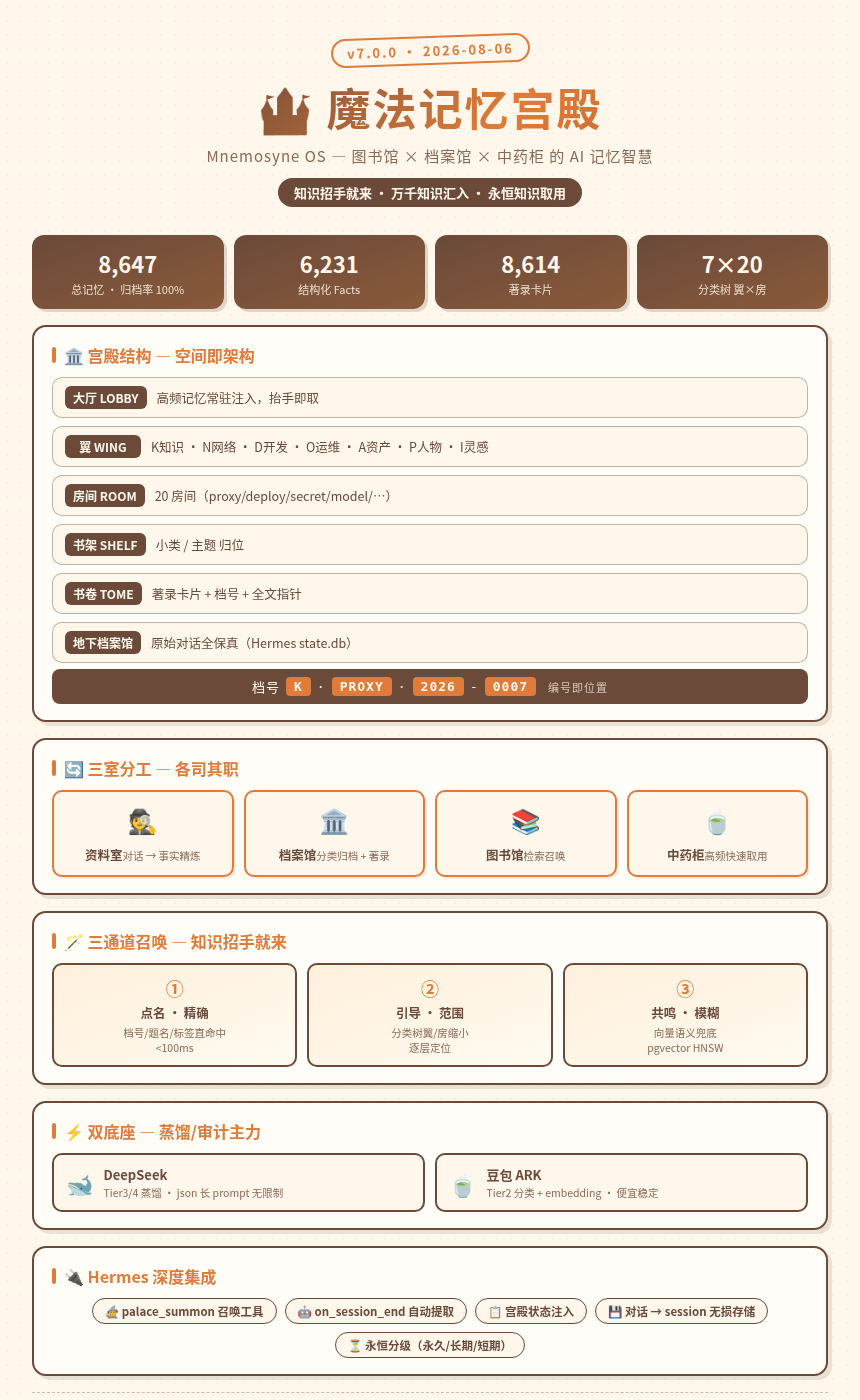
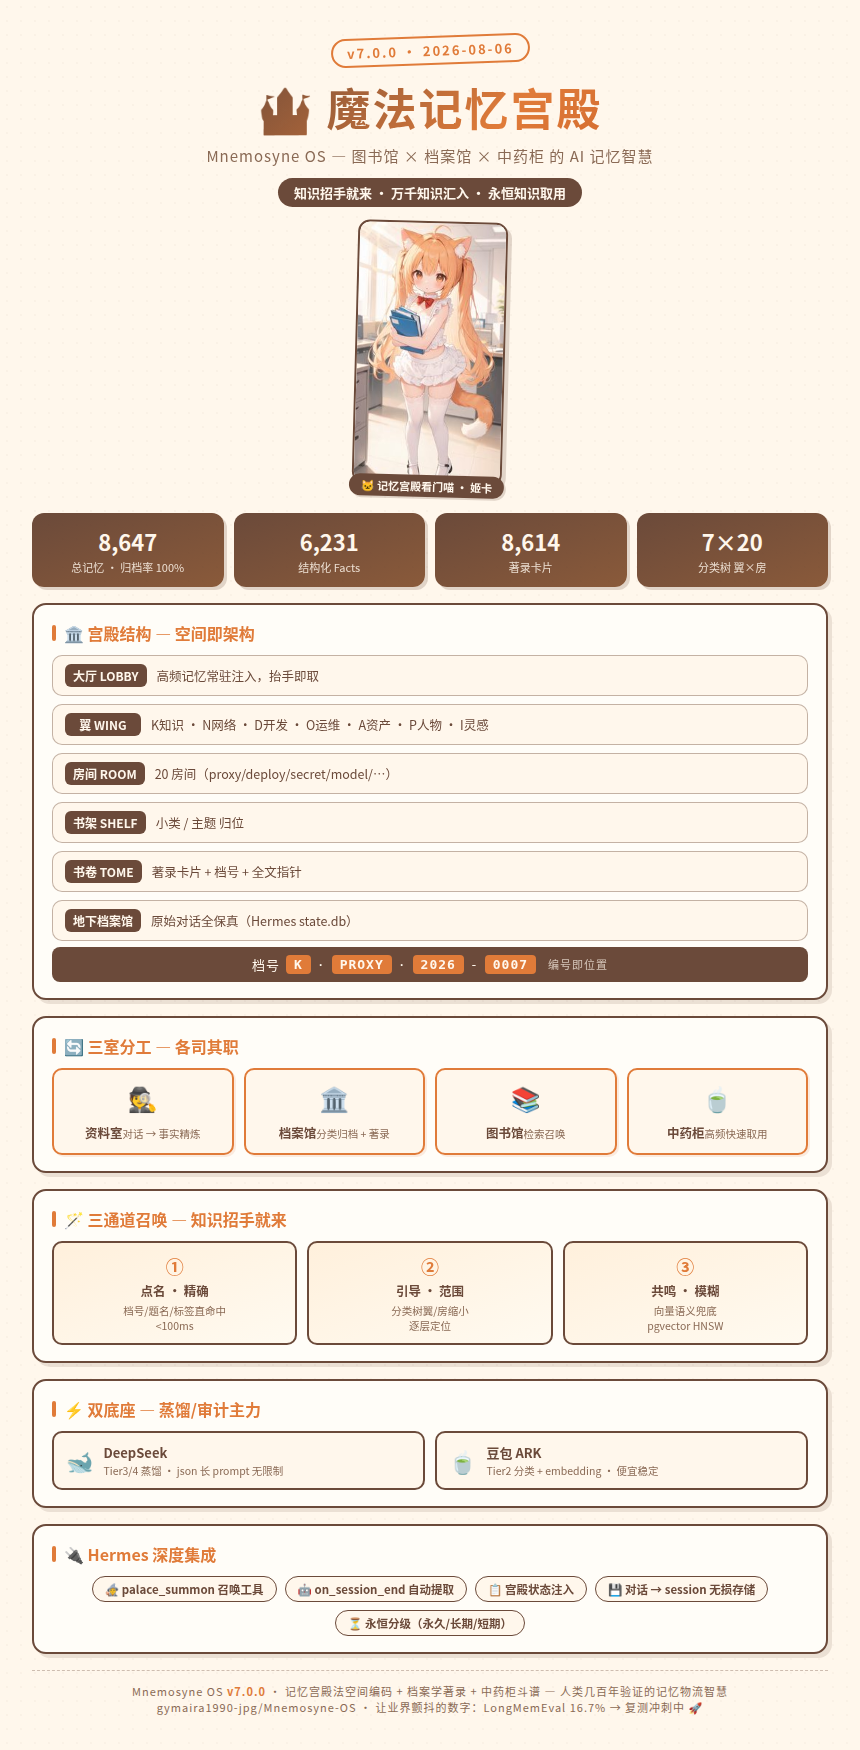
docs: 海报加姬卡看门喵立牌 — 复用定妆照资产
- hero 区嵌入 G-CAT秘书娘-姬卡-橘猫版定妆照 (base64内嵌, 15KB JPEG压缩)
- 立牌样式: 圆角+深棕描边+硬阴影+名字标签「🐱 记忆宫殿看门喵·姬卡」
- 尺寸 860×1750 (立牌加高, 底部无截断无留白)

Changed region(s): [[0.0302, 0.0, 0.9674, 0.9829]]

diff --git a/docs/poster.html b/docs/poster.html
@@ -140,6 +140,22 @@
   <h1>🏰 魔法记忆宫殿</h1>
   <div class="sub">Mnemosyne OS — 图书馆 × 档案馆 × 中药柜 的 AI 记忆智慧</div>
   <div class="tagline">知识招手就来 · 万千知识汇入 · 永恒知识取用</div>
+
+  <div style="display:flex;justify-content:center;margin-top:14px;">
+    <div style="position:relative;display:inline-block;transform:rotate(1.5deg);">
[1 lines of base64/hex data omitted]
+           alt="姬卡看门喵"
+           style="width:150px;border-radius:12px;border:2.5px solid #6B4A3A;
+                  box-shadow:4px 4px 0 #6B4A3A33;display:block;">
+      <div style="position:absolute;bottom:-12px;left:50%;transform:translateX(-50%);
+                  background:#6B4A3A;color:#FFF7EC;font-size:11px;font-weight:800;
+                  padding:3px 12px;border-radius:999px;white-space:nowrap;
+                  box-shadow:2px 2px 0 #6B4A3A33;">
+        🐱 记忆宫殿看门喵 · 姬卡
+      </div>
+    </div>
+  </div>
+
 </div>
 
 <!-- 数据条 -->
